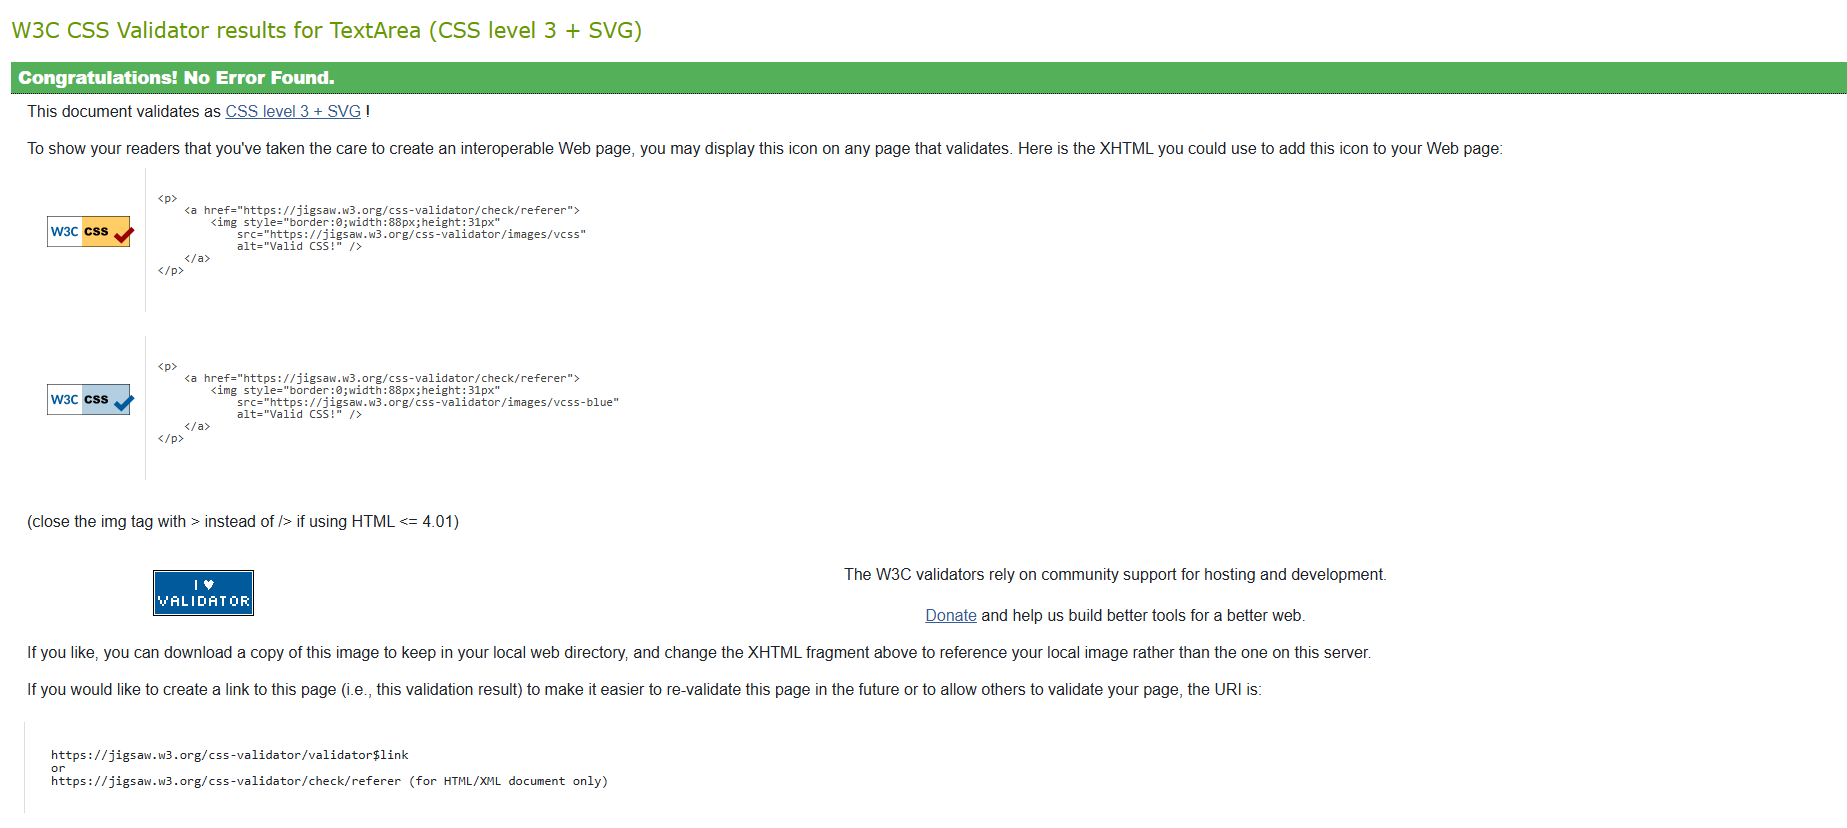
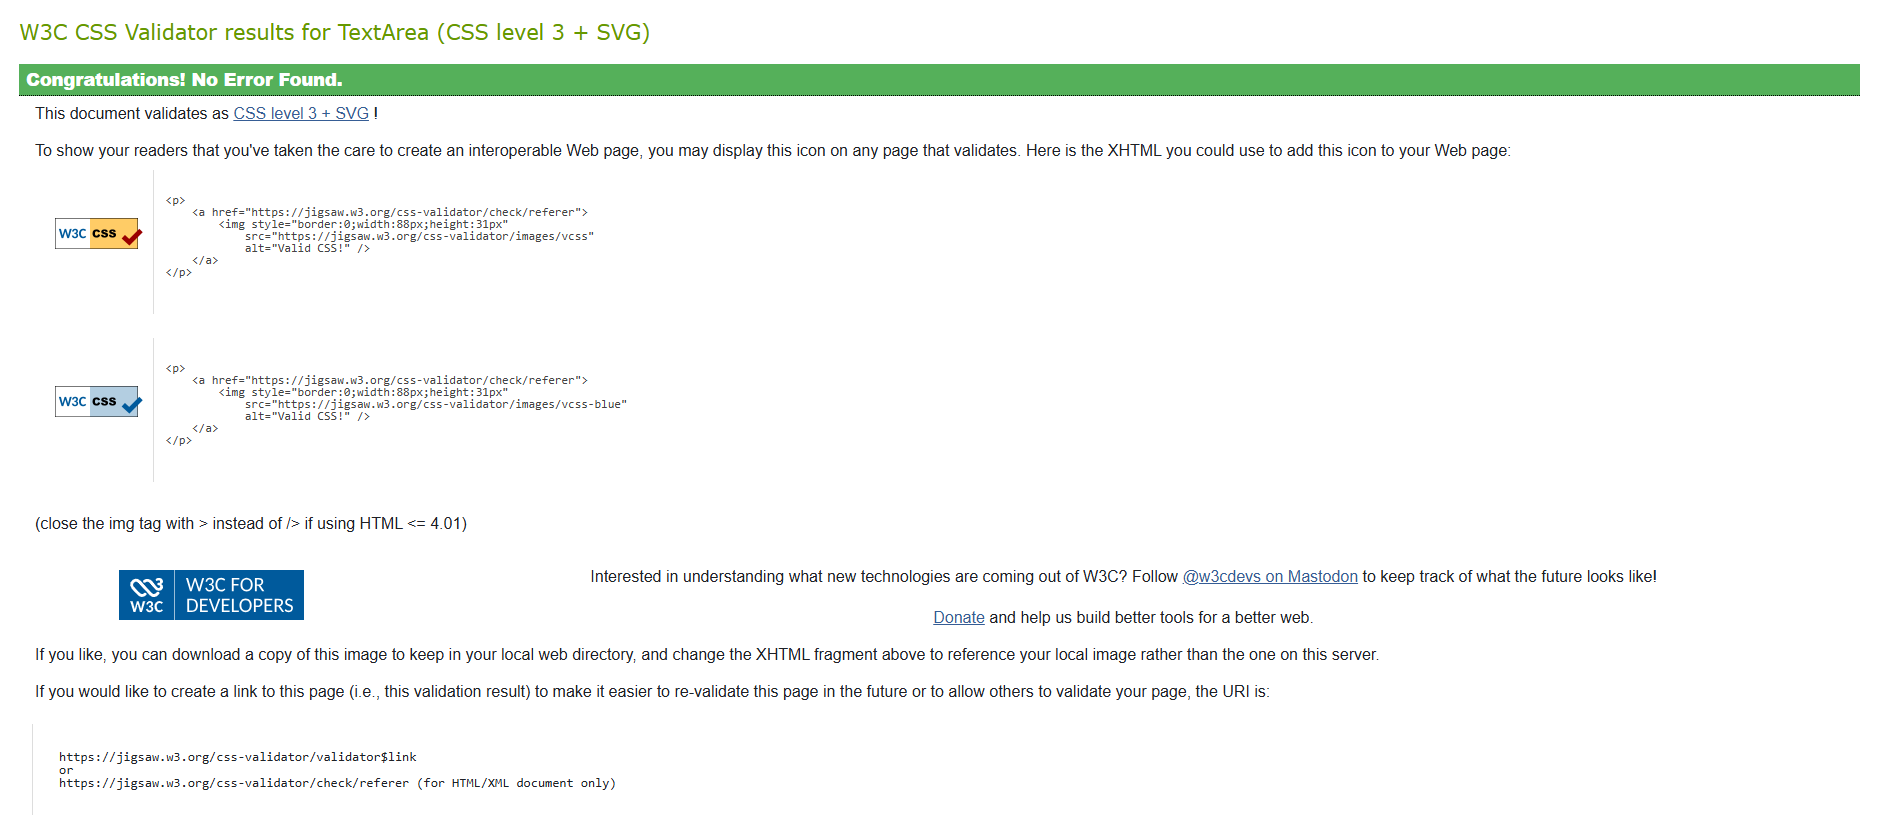
CSS test updated

diff --git a/src/index.css b/src/index.css
@@ -373,7 +373,7 @@ footer p {
 /*extra control for xlarge screens */
 @media screen and (min-width: 1200px) {
   /*header */
-  #opening h2 {
+  #opening h1 {
     font-size: 40px;
     margin: 0 0 10px 0;
   }

diff --git a/README.md b/README.md
@@ -824,6 +824,8 @@ Other issues I faced with my CSS was the gap property with display grid affectin
 
 While final testing noticed that the images on the recipe card were behaving erratically disrupting the organised layout of the page. I solved this problem by removing some of the flexbox properties namely the justify-content from recipeCard DIV and adding a margin top of 10px to the image to keep it relative to the top of the recipe card no matter the size. Although this means the images turn out smaller than previously, as they are low quality images from the external API this improves the visual quality of the images.(please see screenshots below for before and after shots)
 
+CSS testing updated as I changed the h2 for a h1 for accessibility reasons. After this I failed to update the CSS targeting the old h2. While checking the website I noticed the styling was out, so all has been updated along with a new CSS test to suit. 
+
 
 
 
@@ -838,6 +840,8 @@ The CSS in the head of my 404-page passed all checks. All the rest of the CSS wa
 
 
 While testing my site to confirm all was working as intended I noticed I had forgotten that I had wrapped the list section in a main element so when I added the main styling to my index.css it had broken the styling for my main app. To fix this I have moved the main styling for 404 back into the head of the 404 page. The tests above still apply as the code passed whilst going through the main index.css test, so I know that it does not need retesting now it has been moved as the code did not change only location.
+
+
 
 
 [Back to top](#recipe-rescue)
